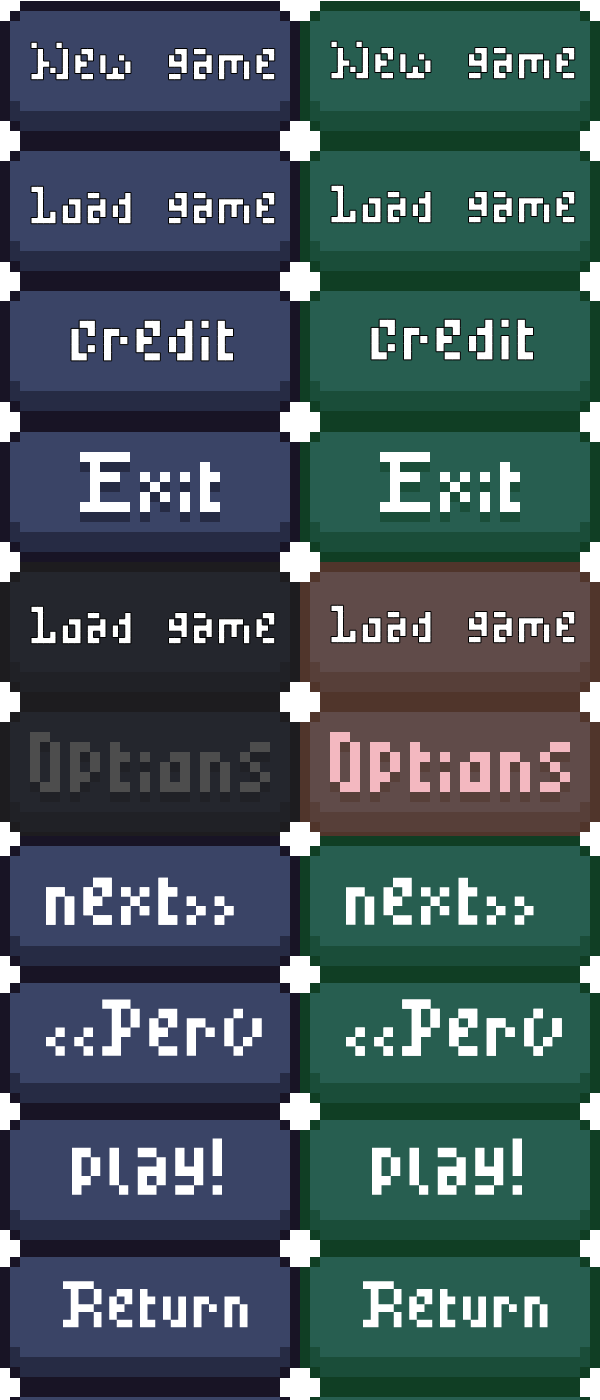
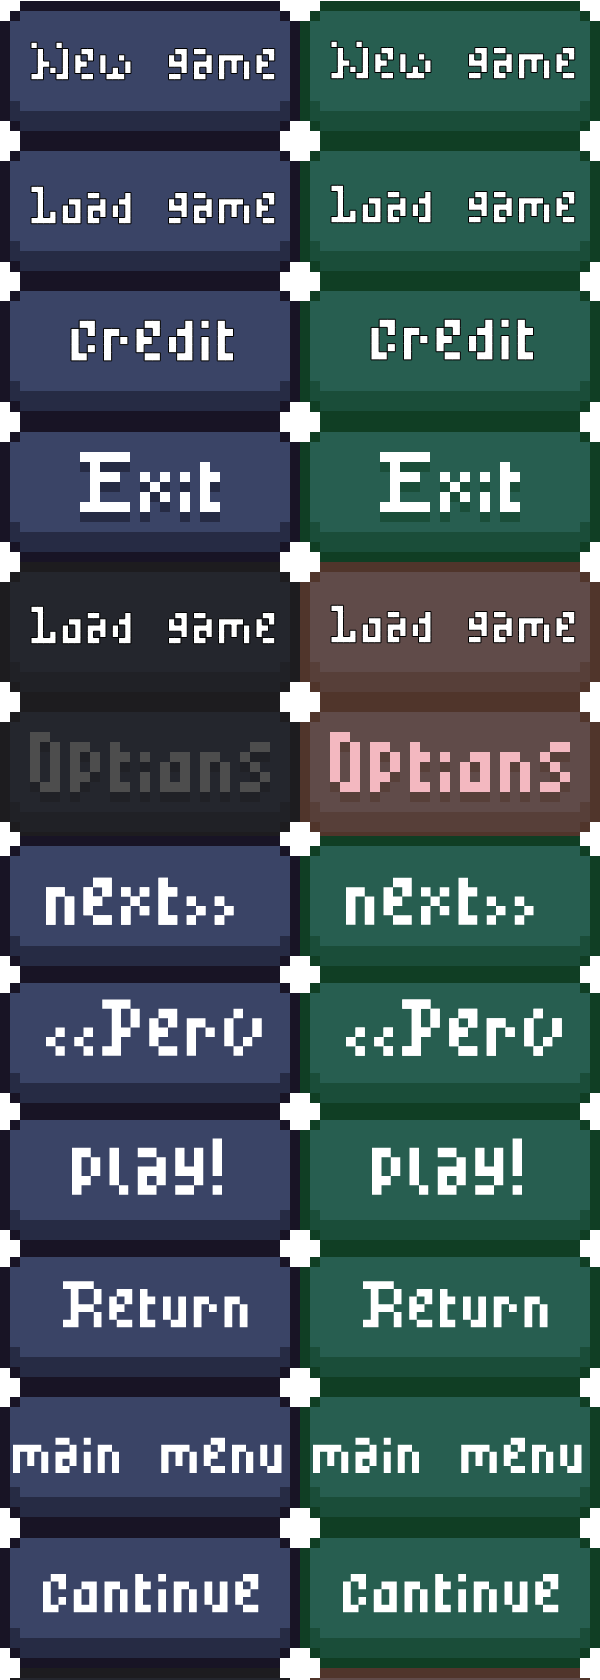
Added Pause Menu

diff --git a/src/main/java/group7/gameStates/InLevelState.java b/src/main/java/group7/gameStates/InLevelState.java
@@ -1,13 +1,20 @@
 package group7.gameStates;
 
 import group7.Game;
+import group7.Graphics.GraphicsButtons;
+import group7.Graphics.GraphicsGrid;
 import group7.entities.Player;
 import group7.levels.LevelManager;
+import group7.utils.AssetLoader;
 import group7.utils.Direction;
 
 import java.awt.*;
 import java.awt.event.KeyEvent;
 import java.awt.event.MouseEvent;
+import java.awt.image.BufferedImage;
+
+import static group7.Graphics.GraphicsPanel.panelHeight;
+import static group7.Graphics.GraphicsPanel.panelWidth;
 
 
 // This class is for when the game is in Playing state
@@ -18,67 +25,147 @@ public class InLevelState extends State {
         public Player player;
         protected LevelManager levelManager;
         int DinoNumber = 1;
+        public boolean isPaused = false;
+         protected GraphicsButtons[] PauseMenuButtons = new GraphicsButtons[4];
+        private BufferedImage PauseBackground;
+        private static final int PAUSE_BACKGROUND_HEIGHT=80+4*GraphicsGrid.getScaleY()+20;
+        private static final int PAUSE_BACKGROUND_WIDTH=4*GraphicsGrid.getScaleX(); // The width of main Menu is 4 Grids
         public InLevelState(Game game, int PlayerDinoNumber) {
             super(game);
             this.levelManager = new LevelManager();
             this.levelManager.loadLevel(1);
             this.DinoNumber = PlayerDinoNumber;
             this.player = new Player(1, 1, this.levelManager.getLevelData(),PlayerDinoNumber);
+            PauseBackground = AssetLoader.getSpriteAtlas(AssetLoader.MAIN_MENU_BACKGROUND);
+            PauseMenuButtons[0] = new GraphicsButtons(game,panelWidth / 2, 170, 0, gameStates.RESTART);
+            PauseMenuButtons[1] = new GraphicsButtons(game,panelWidth / 2, 170 + 10 + 1 * GraphicsGrid.getScaleY(), 11, gameStates.IN_LEVEL);
+            PauseMenuButtons[2] = new GraphicsButtons(game,panelWidth / 2, 170 + 20 + 2 * GraphicsGrid.getScaleY(), 10, gameStates.IN_MENU);
+            PauseMenuButtons[3] = new GraphicsButtons(game,panelWidth / 2, 170 + 30 + 3 * GraphicsGrid.getScaleY(), 3, gameStates.QUIT);
         }
         public void update() {
-            player.update();
+            if (isPaused==false){
+                player.update();
+            }
+            else{
+                for (GraphicsButtons button : PauseMenuButtons)
+                    button.update();
+            }
         }
         public void render(Graphics g) {
             levelManager.render(g);
             player.render(g);
+            if (isPaused){
+                renderPause(g);
+            }
         }
 
 
-        @Override
+    @Override
         public void keyPressed(KeyEvent e) {
-            if (e.getKeyCode() == KeyEvent.VK_RIGHT ) {
-                //Right arrow key code
-                player.setDirection(Direction.RIGHT);
-            } else if (e.getKeyCode() == KeyEvent.VK_LEFT ) {
-                //gamePanel arrow key code
-                player.setDirection(Direction.LEFT);
-            } else if (e.getKeyCode() == KeyEvent.VK_UP ) {
-                //Up arrow key code
-                player.setDirection(Direction.UP);
-            } else if (e.getKeyCode() == KeyEvent.VK_DOWN ) {
-                //Down arrow key code
-                player.setDirection(Direction.DOWN);
+            if (isPaused==false){
+                if (e.getKeyCode() == KeyEvent.VK_RIGHT ) {
+                    //Right arrow key code
+                    player.setDirection(Direction.RIGHT);
+                } else if (e.getKeyCode() == KeyEvent.VK_LEFT ) {
+                    //gamePanel arrow key code
+                    player.setDirection(Direction.LEFT);
+                } else if (e.getKeyCode() == KeyEvent.VK_UP ) {
+                    //Up arrow key code
+                    player.setDirection(Direction.UP);
+                } else if (e.getKeyCode() == KeyEvent.VK_DOWN ) {
+                    //Down arrow key code
+                    player.setDirection(Direction.DOWN);
+                }
+                if (e.getKeyCode()==KeyEvent.VK_ESCAPE){
+                    isPaused = true;
+                    return;
+                }
+            }
+            if (isPaused==true){
+                if (e.getKeyCode()==KeyEvent.VK_ESCAPE){
+                    isPaused = false;
+                }
             }
         }
         @Override
         public void keyReleased(KeyEvent e) {
-            if (e.getKeyCode() == KeyEvent.VK_RIGHT ) {
-                //Right arrow key code
-                player.removeDirection(Direction.RIGHT);
-            } else if (e.getKeyCode() == KeyEvent.VK_LEFT ) {
-                //gamePanel arrow key code
-                player.removeDirection(Direction.LEFT);
-            } else if (e.getKeyCode() == KeyEvent.VK_UP ) {
-                //Up arrow key code
-                player.removeDirection(Direction.UP);
-            } else if (e.getKeyCode() == KeyEvent.VK_DOWN ) {
-                //Down arrow key code
-                player.removeDirection(Direction.DOWN);
+            if (isPaused==false){
+                if (e.getKeyCode() == KeyEvent.VK_RIGHT ) {
+                    //Right arrow key code
+                    player.removeDirection(Direction.RIGHT);
+                } else if (e.getKeyCode() == KeyEvent.VK_LEFT ) {
+                    //gamePanel arrow key code
+                    player.removeDirection(Direction.LEFT);
+                } else if (e.getKeyCode() == KeyEvent.VK_UP ) {
+                    //Up arrow key code
+                    player.removeDirection(Direction.UP);
+                } else if (e.getKeyCode() == KeyEvent.VK_DOWN ) {
+                    //Down arrow key code
+                    player.removeDirection(Direction.DOWN);
+                }
             }
         }
 
     @Override
     public void mousePressed(MouseEvent e) {
+            if(isPaused==false){
+                return;
+            }
+        for (GraphicsButtons button : PauseMenuButtons) {
+            if (button.isMouseInButton(e)) {
+                button.setMousePressed(true);
+            }
+        }
 
     }
 
     @Override
     public void mouseReleased(MouseEvent e) {
+        if(isPaused==false){
+            return;
+        }
+        for (GraphicsButtons button : PauseMenuButtons) {
+            if (button.isMouseInButton(e)) {
+                if (button.isMousePressed())
+                    button.applyGamestate();
+                break;
+            }
+        }
+        resetButtons();
+    }
 
+    private void resetButtons() {
+        for (GraphicsButtons button : PauseMenuButtons) {
+            button.resetBools();
+        }
     }
 
     @Override
     public void mouseMoved(MouseEvent e) {
+        if(isPaused==false){
+            return;
+        }
+        for (GraphicsButtons button : PauseMenuButtons)
+            button.setMouseOver(false);
 
+        for (GraphicsButtons button : PauseMenuButtons) {
+            if (button.isMouseInButton(e)) {
+                button.setMouseOver(true);
+                break;
+            }
+
+        }
+    }
+    private void renderPause(Graphics g) {
+        g.drawImage(PauseBackground,
+                panelWidth / 2 - 2*GraphicsGrid.getScaleX(),
+                140,
+                PAUSE_BACKGROUND_WIDTH,
+                PAUSE_BACKGROUND_HEIGHT,
+                null);
+
+        for (GraphicsButtons buttons : PauseMenuButtons) {
+            buttons.render(g);
+        }
     }
 }

diff --git a/src/main/java/group7/Game.java b/src/main/java/group7/Game.java
@@ -47,6 +47,11 @@ public class Game implements Runnable {
 
     public void changeGameStates(gameStates gameStateParameter){
         // changing the gameCurrentState to indicate the current running state of game in game class
+        if (gameStateParameter==gameStates.IN_LEVEL && gameCurrentState==gameStates.IN_LEVEL){
+            if (inLevelState.isPaused==true){
+                inLevelState.isPaused=false;
+            }
+        }
         if (gameCurrentState == gameStateParameter ){
             return;
         }
@@ -74,6 +79,11 @@ public class Game implements Runnable {
         }
         if (gameStateParameter == gameStates.PERV ) {
             playerDinoNumber = mainMenuState.decrementIndexCharacterDemo() + 1;
+        }
+        if (gameStateParameter == gameStates.RESTART ) {
+            this.gameCurrentState = gameStates.IN_LEVEL;
+            inLevelState = new InLevelState(this,playerDinoNumber);
+            graphicsPanel.changeGameStates(inLevelState);
         }
         else if (gameStateParameter == gameStates.IN_LEVEL ) {
             // Here, once the game state is changed to in Level state (the state, where player is playing) in game class,

diff --git a/src/main/java/group7/gameStates/MainMenuState.java b/src/main/java/group7/gameStates/MainMenuState.java
@@ -48,6 +48,7 @@ public class MainMenuState extends State {
 
     @Override
     public void render(Graphics g) {
+
         mainPageParallelBG.renderParallelBackground(g);
             // Show the original main menu
             loadingTick++;
@@ -74,8 +75,8 @@ public class MainMenuState extends State {
     }
 
     public void keyPressed(KeyEvent e) {
-        if (e.getKeyCode() == KeyEvent.VK_ENTER)
-            game.changeGameStates(gameStates.IN_LEVEL);
+        if (e.getKeyCode() == KeyEvent.VK_ESCAPE)
+            game.changeGameStates(gameStates.QUIT);
     }
 
     @Override

diff --git a/src/main/java/group7/gameStates/gameStates.java b/src/main/java/group7/gameStates/gameStates.java
@@ -10,5 +10,6 @@ public enum gameStates {
     PLAYER_SELECTION_SUB_MENU,
     CREDIT_SUB_MENU,
     NEXT,
-    PERV;
+    PERV,
+    RESTART;
 }
